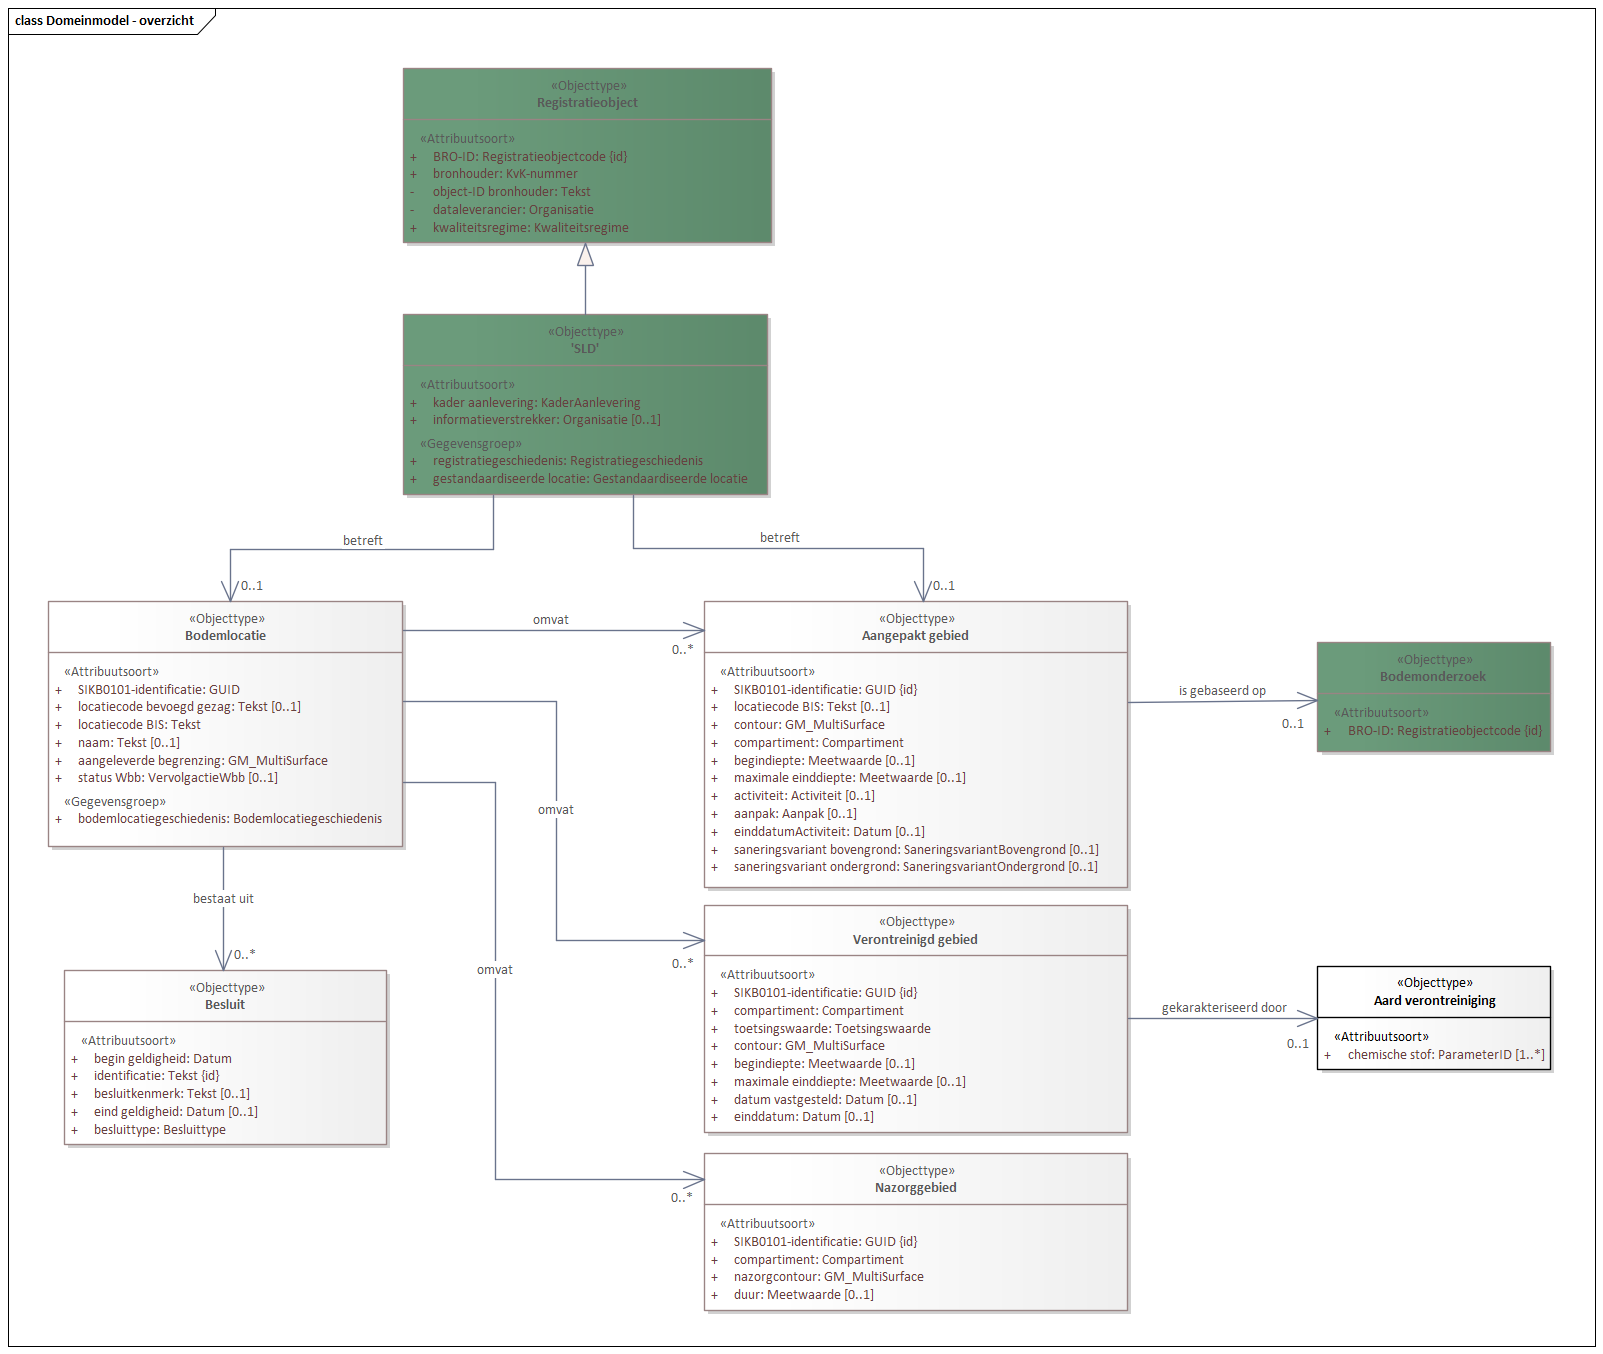
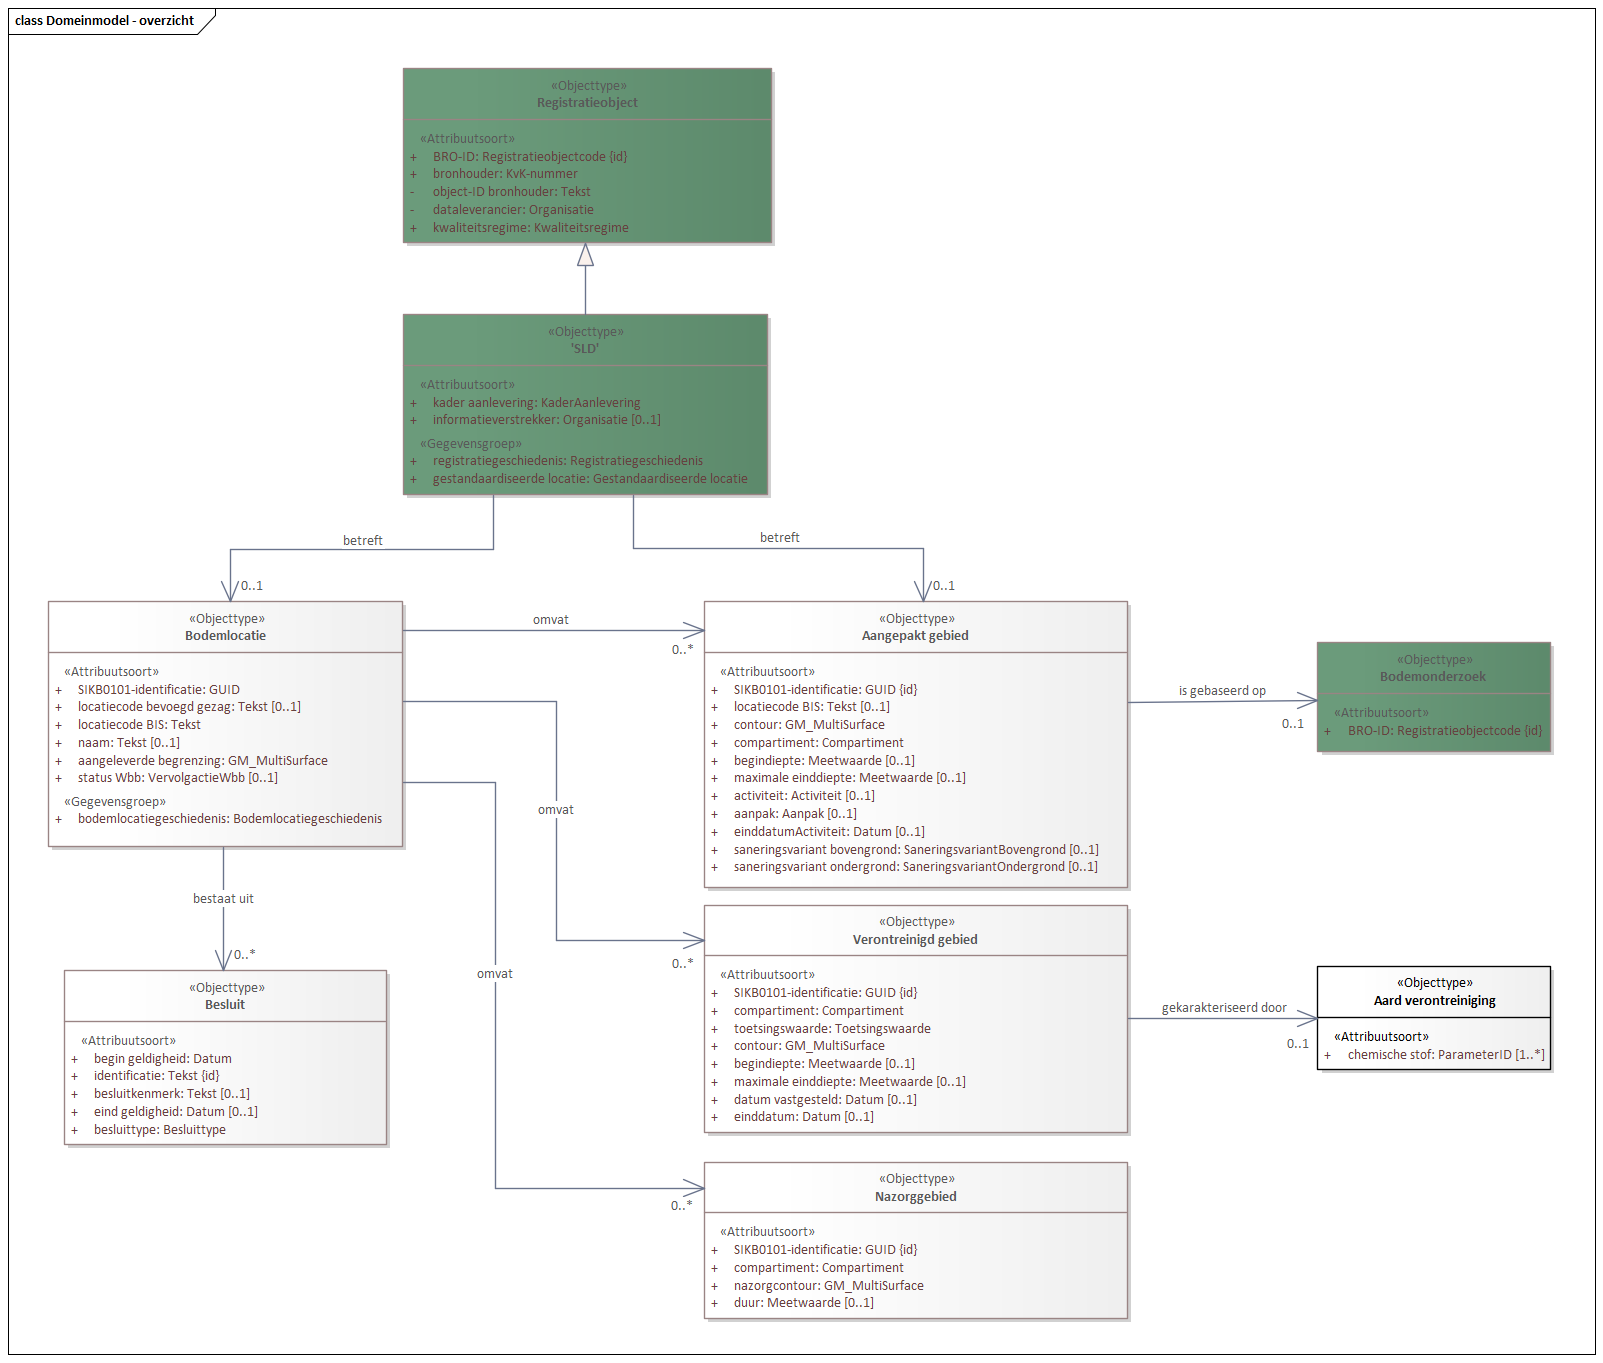
Conceptualmodel-OverheidsbesluitbodemverontreinigingSLD-0.8-1-20230314-20231212-125041

diff --git a/data/SLD-cat.msword.html b/data/SLD-cat.msword.html
@@ -15,7 +15,7 @@
    <body>
       <p>Conceptual model/Overheidsbesluit bodemverontreiniging SLD/20230314</p>
       <p>Imvertor: Nightly-build.13</p>
-      <p>Model release: Conceptualmodel-OverheidsbesluitbodemverontreinigingSLD-0.8-1-20230314-20231212-121449</p>
+      <p>Model release: Conceptualmodel-OverheidsbesluitbodemverontreinigingSLD-0.8-1-20230314-20231212-125041</p>
       <hr>
       <section>
          <h1>Artikel 1 Definitie van registratieobject, entiteiten en attributen</h1>
@@ -63,7 +63,7 @@
          <section>
             <h2>Het domeinmodel</h2>
             <section>
-               <div class="imageinfo overview"><img src="Images/EAID_C5E26ED5_B55B_4602_9FF2_6B6AAD15ECC8.png" usemap="#imagemap-EAID_C5E26ED5_B55B_4602_9FF2_6B6AAD15ECC8" alt="Diagram &#xA;                        &#xA;                     "><map name="imagemap-EAID_C5E26ED5_B55B_4602_9FF2_6B6AAD15ECC8"><area shape="rect" alt="Aard verontreiniging" coords="1317,966,1551,1070" href="#global_class_Model_Aardverontreiniging"><area shape="rect" alt="Bodemonderzoek" coords="1317,642,1551,752" href="#global_class_Model_Bodemonderzoek"><area shape="rect" alt="'SLD'" coords="403,314,768,495" href="#global_class_Model_SLD"><area shape="rect" alt="Verontreinigd gebied" coords="704,905,1128,1133" href="#global_class_Model_Verontreinigdgebied"><area shape="rect" alt="Nazorggebied" coords="704,1153,1128,1311" href="#global_class_Model_Nazorggebied"><area shape="rect" alt="Aangepakt gebied" coords="704,601,1128,888" href="#global_class_Model_Aangepaktgebied"><area shape="rect" alt="Besluit" coords="64,970,387,1145" href="#global_class_Model_Besluit"><area shape="rect" alt="Bodemlocatie" coords="48,601,403,847" href="#global_class_Model_Bodemlocatie"><area shape="rect" alt="Registratieobject" coords="403,68,772,243" href="#global_class_Model_Registratieobject"></map><p><b>Domeinmodel</b></p>
+               <div class="imageinfo overview"><img src="Images/EAID_C5E26ED5_B55B_4602_9FF2_6B6AAD15ECC8.png" usemap="#imagemap-EAID_C5E26ED5_B55B_4602_9FF2_6B6AAD15ECC8" alt="Diagram &#xA;                        &#xA;                     "><map name="imagemap-EAID_C5E26ED5_B55B_4602_9FF2_6B6AAD15ECC8"><area shape="rect" alt="Aard verontreiniging" coords="1317,966,1551,1070" href="#global_class_Model_Aardverontreiniging"><area shape="rect" alt="Bodemonderzoek" coords="1317,642,1551,752" href="#global_class_Model_Bodemonderzoek"><area shape="rect" alt="'SLD'" coords="403,314,768,495" href="#global_class_Model_SLD"><area shape="rect" alt="Verontreinigd gebied" coords="704,905,1128,1133" href="#global_class_Model_Verontreinigdgebied"><area shape="rect" alt="Nazorggebied" coords="704,1162,1128,1319" href="#global_class_Model_Nazorggebied"><area shape="rect" alt="Aangepakt gebied" coords="704,601,1128,888" href="#global_class_Model_Aangepaktgebied"><area shape="rect" alt="Besluit" coords="64,970,387,1145" href="#global_class_Model_Besluit"><area shape="rect" alt="Bodemlocatie" coords="48,601,403,847" href="#global_class_Model_Bodemlocatie"><area shape="rect" alt="Registratieobject" coords="403,68,772,243" href="#global_class_Model_Registratieobject"></map><p><b>Domeinmodel</b></p>
                </div>
             </section>
          </section>
@@ -610,7 +610,7 @@
                         </tbody>
                      </table>
                      </section>
-                  <section id="detail_d61831e3582">
+                  <section id="detail_d61932e3582">
                      <h4>  registratiegeschiedenis</h4>
                      <table style="width: 100%;">
                         <colgroup style="width: 30%;"></colgroup>
@@ -648,7 +648,7 @@
                         </tbody>
                      </table>
                   </section>
-                  <section id="detail_d61831e3767">
+                  <section id="detail_d61932e3767">
                      <h4>  gestandaardiseerde locatie</h4>
                      <table style="width: 100%;">
                         <colgroup style="width: 30%;"></colgroup>
@@ -1978,7 +1978,7 @@
                         </tbody>
                      </table>
                      </section>
-                  <section id="detail_d61831e8690">
+                  <section id="detail_d61932e8690">
                      <h4>  bodemlocatiegeschiedenis</h4>
                      <table style="width: 100%;">
                         <colgroup style="width: 30%;"></colgroup>

diff --git a/data/SLD-cat.respec.html b/data/SLD-cat.respec.html
@@ -41,7 +41,7 @@
       </section>
    <section>
       <h2>Het domeinmodel   </h2>
-      <div class="imageinfo overview"><img src="data/Images/EAID_C5E26ED5_B55B_4602_9FF2_6B6AAD15ECC8.png" usemap="#imagemap-EAID_C5E26ED5_B55B_4602_9FF2_6B6AAD15ECC8" alt="Diagram &#xA;                        &#xA;                     "><map name="imagemap-EAID_C5E26ED5_B55B_4602_9FF2_6B6AAD15ECC8"><area shape="rect" alt="Aard verontreiniging" coords="1317,966,1551,1070" href="#global_class_Model_Aardverontreiniging"><area shape="rect" alt="Bodemonderzoek" coords="1317,642,1551,752" href="#global_class_Model_Bodemonderzoek"><area shape="rect" alt="'SLD'" coords="403,314,768,495" href="#global_class_Model_SLD"><area shape="rect" alt="Verontreinigd gebied" coords="704,905,1128,1133" href="#global_class_Model_Verontreinigdgebied"><area shape="rect" alt="Nazorggebied" coords="704,1153,1128,1311" href="#global_class_Model_Nazorggebied"><area shape="rect" alt="Aangepakt gebied" coords="704,601,1128,888" href="#global_class_Model_Aangepaktgebied"><area shape="rect" alt="Besluit" coords="64,970,387,1145" href="#global_class_Model_Besluit"><area shape="rect" alt="Bodemlocatie" coords="48,601,403,847" href="#global_class_Model_Bodemlocatie"><area shape="rect" alt="Registratieobject" coords="403,68,772,243" href="#global_class_Model_Registratieobject"></map><p><b>Domeinmodel</b></p>
+      <div class="imageinfo overview"><img src="data/Images/EAID_C5E26ED5_B55B_4602_9FF2_6B6AAD15ECC8.png" usemap="#imagemap-EAID_C5E26ED5_B55B_4602_9FF2_6B6AAD15ECC8" alt="Diagram &#xA;                        &#xA;                     "><map name="imagemap-EAID_C5E26ED5_B55B_4602_9FF2_6B6AAD15ECC8"><area shape="rect" alt="Aard verontreiniging" coords="1317,966,1551,1070" href="#global_class_Model_Aardverontreiniging"><area shape="rect" alt="Bodemonderzoek" coords="1317,642,1551,752" href="#global_class_Model_Bodemonderzoek"><area shape="rect" alt="'SLD'" coords="403,314,768,495" href="#global_class_Model_SLD"><area shape="rect" alt="Verontreinigd gebied" coords="704,905,1128,1133" href="#global_class_Model_Verontreinigdgebied"><area shape="rect" alt="Nazorggebied" coords="704,1162,1128,1319" href="#global_class_Model_Nazorggebied"><area shape="rect" alt="Aangepakt gebied" coords="704,601,1128,888" href="#global_class_Model_Aangepaktgebied"><area shape="rect" alt="Besluit" coords="64,970,387,1145" href="#global_class_Model_Besluit"><area shape="rect" alt="Bodemlocatie" coords="48,601,403,847" href="#global_class_Model_Bodemlocatie"><area shape="rect" alt="Registratieobject" coords="403,68,772,243" href="#global_class_Model_Registratieobject"></map><p><b>Domeinmodel</b></p>
       </div>
    </section>
    <section>
@@ -586,7 +586,7 @@
                </tbody>
             </table>
             </section>
-         <section id="detail_d61831e3582">
+         <section id="detail_d61932e3582">
             <h4>  registratiegeschiedenis</h4>
             <table style="width: 100%;">
                <colgroup style="width: 30%;"></colgroup>
@@ -624,7 +624,7 @@
                </tbody>
             </table>
          </section>
-         <section id="detail_d61831e3767">
+         <section id="detail_d61932e3767">
             <h4>  gestandaardiseerde locatie</h4>
             <table style="width: 100%;">
                <colgroup style="width: 30%;"></colgroup>
@@ -1954,7 +1954,7 @@
                </tbody>
             </table>
             </section>
-         <section id="detail_d61831e8690">
+         <section id="detail_d61932e8690">
             <h4>  bodemlocatiegeschiedenis</h4>
             <table style="width: 100%;">
                <colgroup style="width: 30%;"></colgroup>
